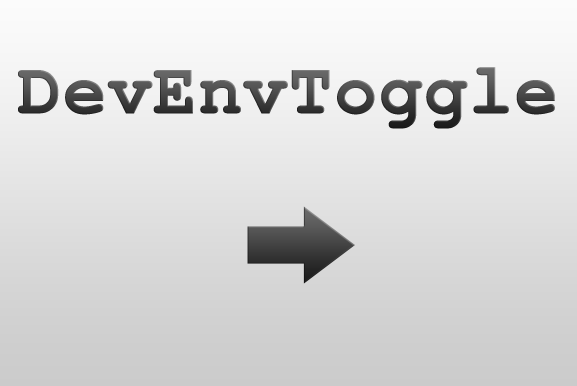
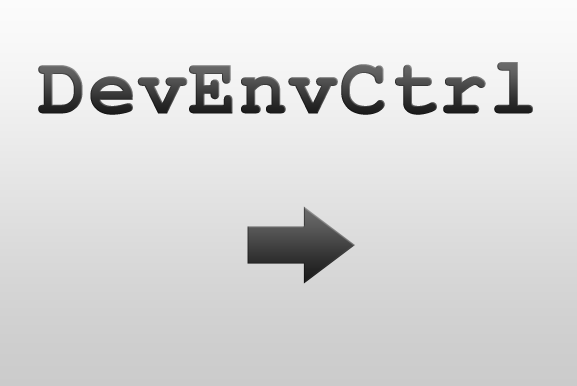
renamed project & files from DevEnvToggle to DevEnvCtrl

Changed region(s): [[0.0312, 0.1554, 0.9671, 0.342]]

diff --git a/DevEnvToggle/AppDelegate.m b/DevEnvToggle/AppDelegate.m
@@ -45,7 +45,7 @@
     [statusItem setAlternateImage:statusLightImage];
     [statusItem setMenu:statusMenu];
     [statusItem setAction:@selector(onClick:)];
-    [statusItem setToolTip:@"DevEnvToggle"];
+    [statusItem setToolTip:@"DevEnvCtrl"];
     [statusItem setHighlightMode:YES];;
     // read service-plists and add menu-items
     NSArray *serviceFiles = [AppServiceData serviceDataFiles:[self applicationSupportDirectory]];

diff --git a/README.md b/README.md
@@ -1,6 +1,6 @@
-# DevEnvToggle
+# DevEnvCtrl
 
-DevEnvToggle StatusBar-Application for Mac OS X
+DevEnvCtrl StatusBar-Application for Mac OS X
 
 ## Control your development environment
 
